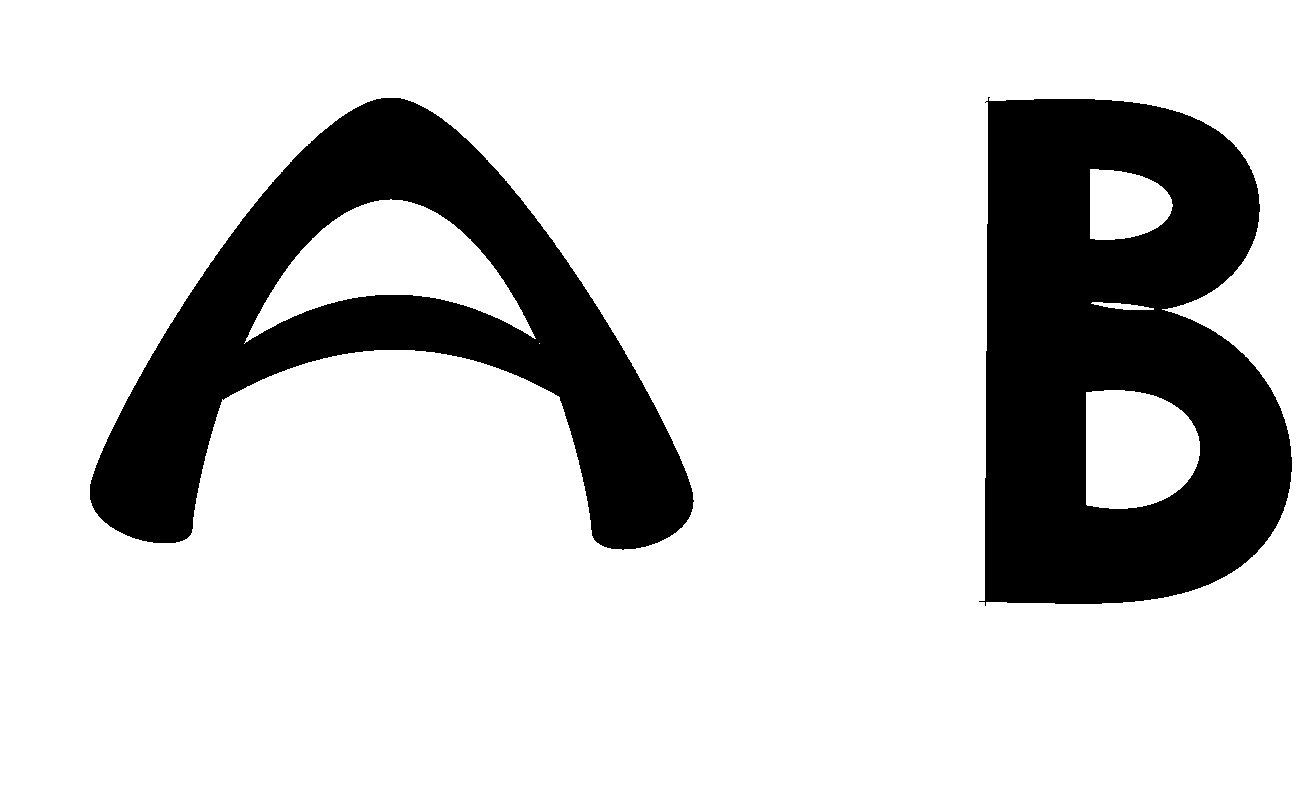
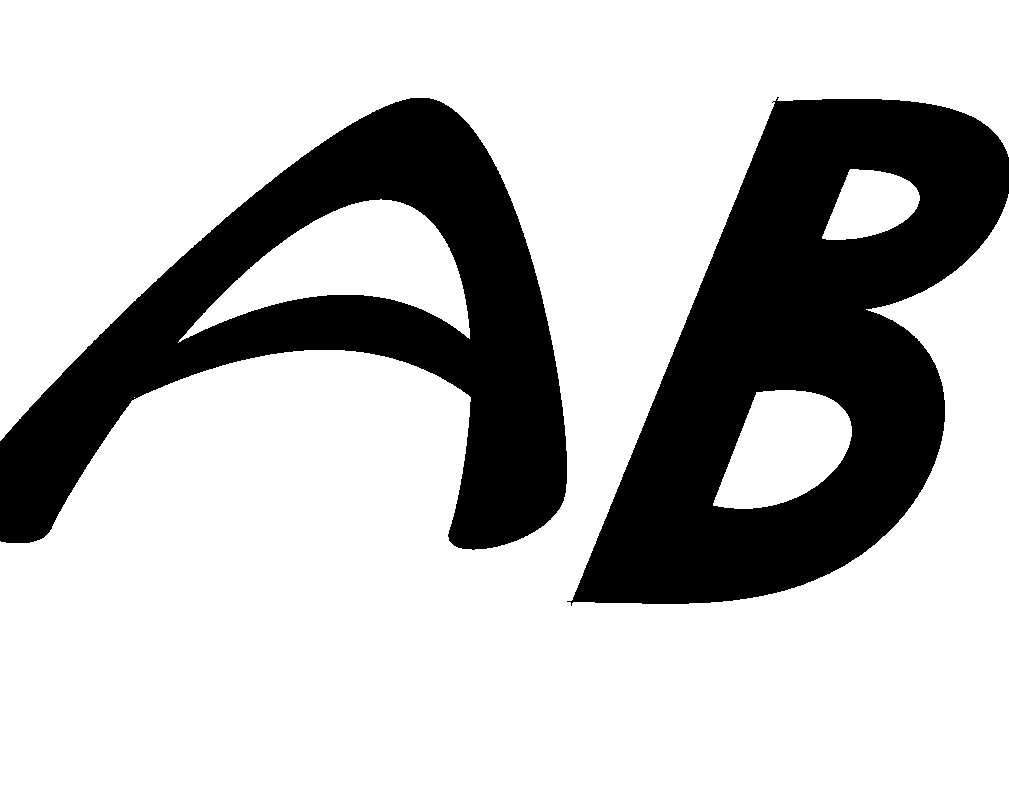
naprawiona kursywa

diff --git a/AN/Bezier/bezierTyper.py b/AN/Bezier/bezierTyper.py
@@ -49,7 +49,7 @@ def read_curves(src):
         pY.append(int(l))
       continue
     if line[0] == "w":
-      for l in line[7:].split(","):
+      for l in line[6:].split(","):
         width.append(int(l))
       continue
 
@@ -122,9 +122,9 @@ def main():
             dist = p[1] - midY
             p[0] -= int((dist * R))
         for line in letters[i][1]:
-          for p in line:
-            dist = p[1] - midY
-            p[0] -= int((dist * R))
+          for p in range(len(line[0])):
+            dist = line[1][p] - midY
+            line[0][p] -= int((dist * R))
         for j in range(len(letters[i][2])):
           letters[i][2][j][0] -= int((letters[i][2][j][1] - midY) * R)
 
@@ -146,10 +146,9 @@ def main():
         nc = tuple([c[0] + start[0], c[1]])
         ImageDraw.floodfill(img, nc, value=ImageColor.getrgb(color))
 
-      start[0] += separator + letters[i][3][1] - letters[i][3][0]
+      start[0] += separator + letters[i][3][1]
 
     img.save(args.output)
-
 
 if __name__ == "__main__":
   main()
